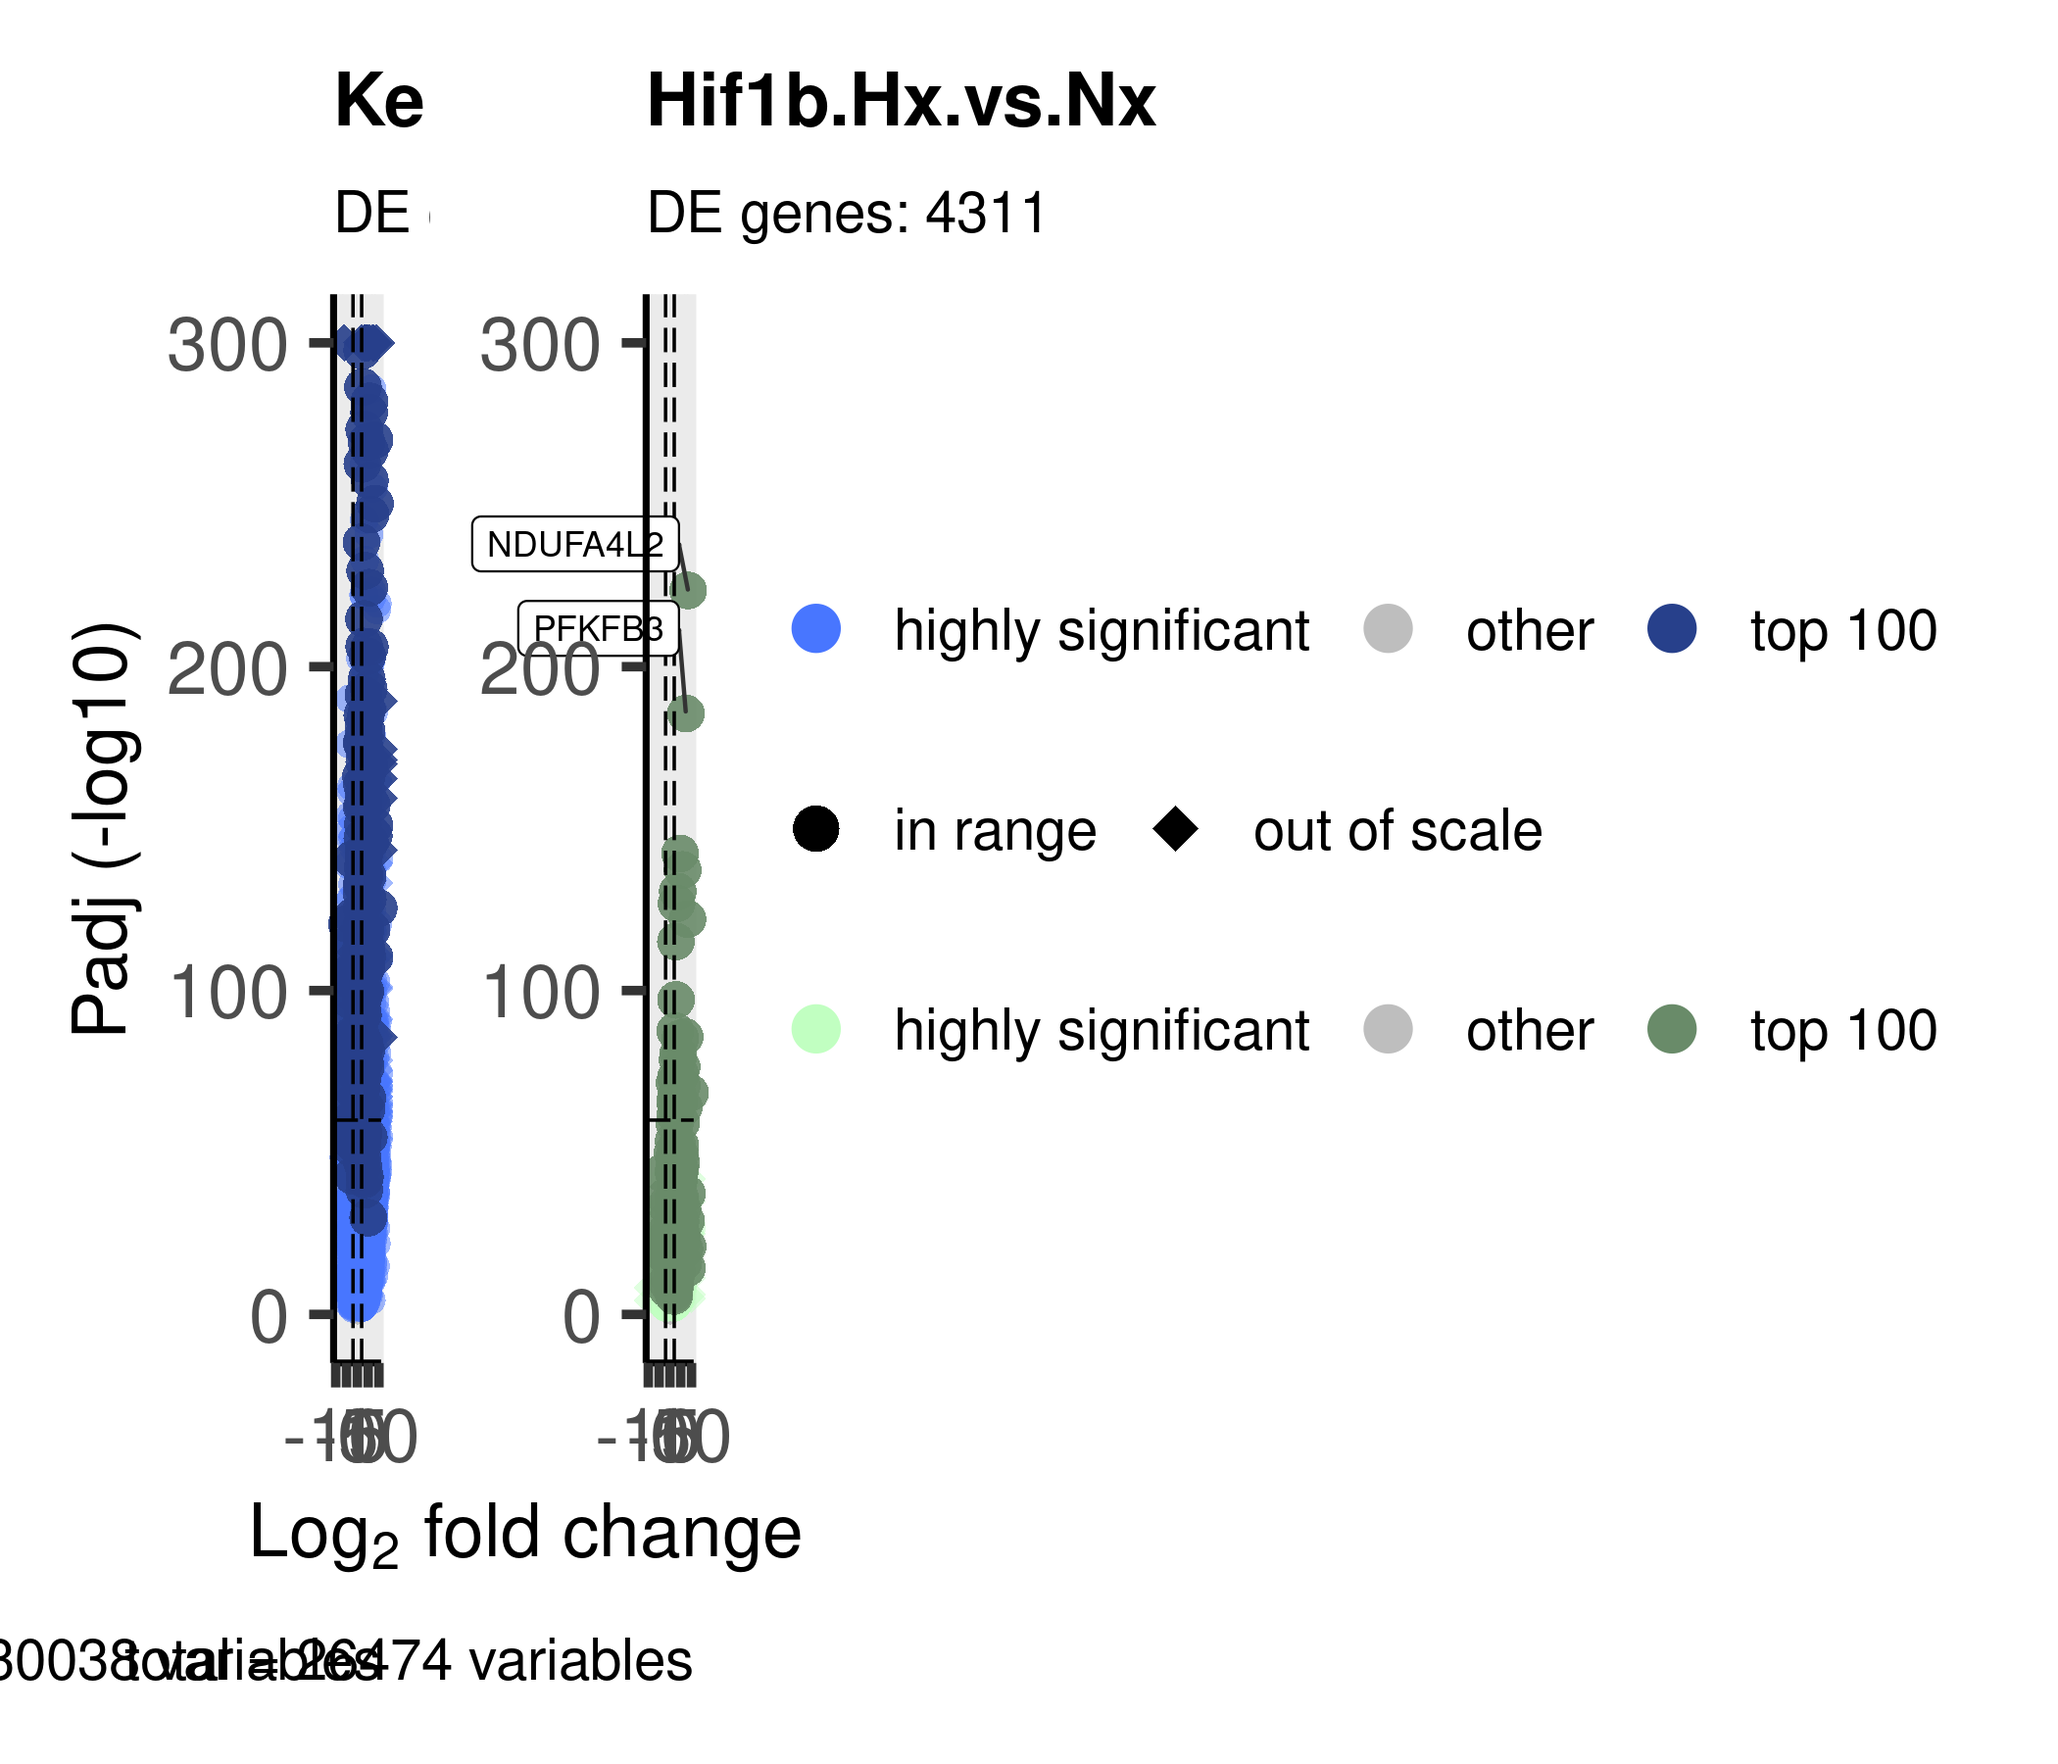
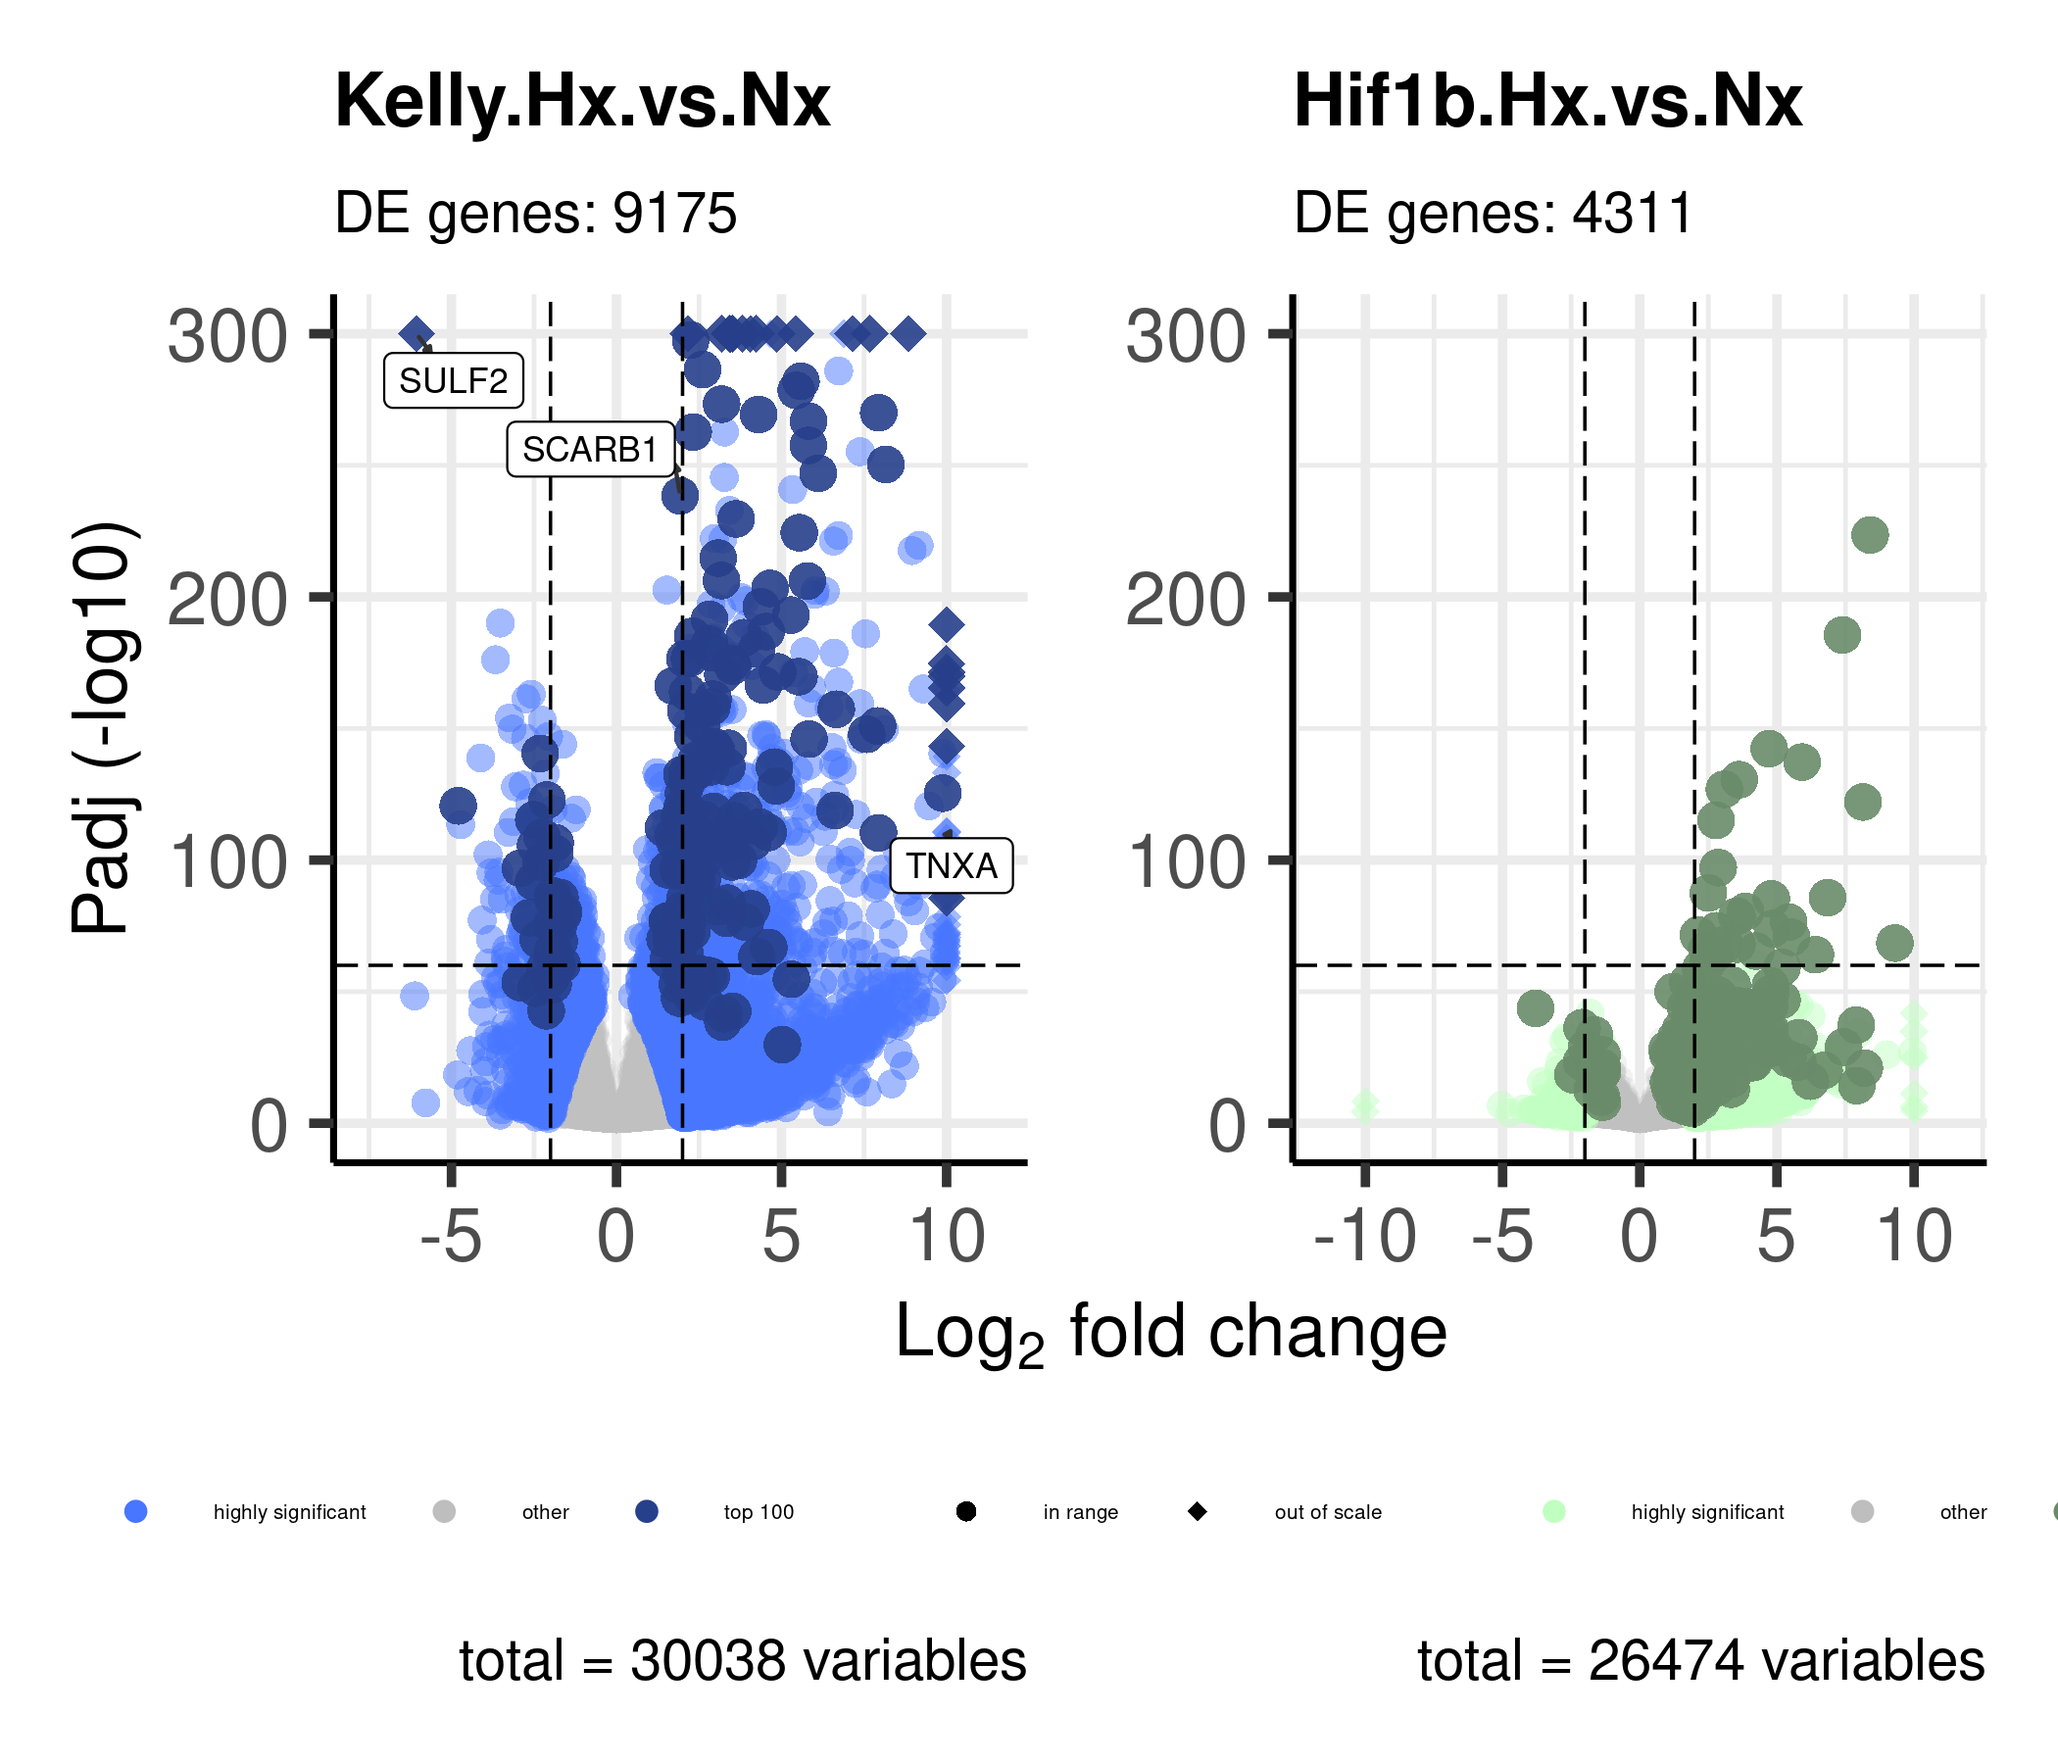
example counts

diff --git a/2B_DGE/README.md b/2B_DGE/README.md
@@ -8,10 +8,9 @@ Kelterborn
   - [- dds](#--dds)
   - [- functions](#--functions)
 - [1. Make results](#1-make-results)
-  - [Advanced results
-    troubleshooting](#advanced-results-troubleshooting)
+  - [Plot example counts](#plot-example-counts)
 - [2. Data Dive](#2-data-dive)
-  - [Results](#results)
+  - [Results Venn](#results-venn)
   - [Volcanos](#volcanos)
     - [prepare data](#prepare-data)
     - [simple volcano (full)](#simple-volcano-full)
@@ -43,7 +42,7 @@ design(dds)
 ```
 
     ## ~genotype + treatment + genotype:treatment
-    ## <environment: 0x562b8ffeb498>
+    ## <environment: 0x55a2604a46f8>
 
 ``` r
 names(results_list)
@@ -53,13 +52,64 @@ names(results_list)
     ##  [4] "Kelly.Hx.vs.Nx"      "Nx.Hif1a.vs.Kelly"   "Nx.Hif2a.vs.Kelly"  
     ##  [7] "Nx.Hif1b.vs.Kelly"   "Hx.Hif1a.vs.Kelly"   "Hx.Hif2a.vs.Kelly"  
     ## [10] "Hx.Hif1b.vs.Kelly"   "Hx.Hif2a.vs.Hif1a"   "Hx.Hif1b.vs.Hif1a"  
-    ## [13] "Hx.Hif1b.vs.Hif2a"   "Hx.Hif1b.vs.Hif12a"  "Hx.Kelly.vs.Hif12ab"
+    ## [13] "Hx.Hif1b.vs.Hif2a"   "Hx.Hif1b.vs.Hif12a"  "Hx.Kelly.vs.allHIFs"
 
-### Advanced results troubleshooting
+#### (Advanced results troubleshooting)
+
+## Plot example counts
+
+``` r
+cols = brewer.pal(n=8,name = 'Paired')
+
+# get 3 sample genes
+topgenes_list <- lapply(results_list,topgenes) %>%  lapply(.,rownames) 
+sample_plots <- list()
+sample_plots_list <- {}
+plot_list <- list()
+li <- results_list %>% length()
+for (i in 1:li){
+  n <- results_list[i] %>% names()
+  goi <- c(topgenes_list[[i]][1],sample(topgenes_list[[i]],size=2))
+  l <- length(goi)
+       for (ig in 1:l){
+  s <- mcols(dds)[goi[ig],"symbol"]
+  if (s ==""){s <- goi[ig]}
+    d <- plotCounts(dds, gene=goi[ig], intgroup=c("condition","experiment","genotype","treatment"), main=s,returnData=TRUE)
+
+  gcounts <- ggplot(d, aes(x = genotype, y = count, fill=treatment, color=treatment)) +
+    geom_boxplot(color="black") +
+    geom_point(shape=21,color="black",aes(fill=treatment),position=position_dodge(width=0.75), alpha=1) +
+    scale_fill_manual(values=cols[c(1,5)]) +
+    scale_color_manual(values=cols[c(1,5)]) +
+    scale_y_continuous(trans = "log2") +
+    labs(title = paste(s,"(",goi[ig],")",sep=" "))
+  assign(paste("gcounts_",ig,sep=""),gcounts)
+  
+  plot_list[[paste(n,s,sep="_")]] <- gcounts
+       }
+  
+  plot <- gcounts_1 + gcounts_2 + gcounts_3 +  
+    plot_annotation(title = n) +
+    plot_layout(guides = "collect", axis_titles="collect") & theme(legend.position = 'bottom',plot.title = element_text(size=10))
+  print(plot)
+}
+```
+
+![](Readme_files/figure-gfm/results_counts-1.png)<!-- -->![](Readme_files/figure-gfm/results_counts-2.png)<!-- -->![](Readme_files/figure-gfm/results_counts-3.png)<!-- -->![](Readme_files/figure-gfm/results_counts-4.png)<!-- -->![](Readme_files/figure-gfm/results_counts-5.png)<!-- -->![](Readme_files/figure-gfm/results_counts-6.png)<!-- -->![](Readme_files/figure-gfm/results_counts-7.png)<!-- -->![](Readme_files/figure-gfm/results_counts-8.png)<!-- -->![](Readme_files/figure-gfm/results_counts-9.png)<!-- -->![](Readme_files/figure-gfm/results_counts-10.png)<!-- -->![](Readme_files/figure-gfm/results_counts-11.png)<!-- -->![](Readme_files/figure-gfm/results_counts-12.png)<!-- -->![](Readme_files/figure-gfm/results_counts-13.png)<!-- -->![](Readme_files/figure-gfm/results_counts-14.png)<!-- -->![](Readme_files/figure-gfm/results_counts-15.png)<!-- -->
+
+``` r
+for (n in names(results_list)){
+pn <-   str_detect(names(plot_list), pattern=n) %>% names(plot_list)[.]
+plot.3 <- patchwork::wrap_plots(plot_list[pn],ncol = 3) + plot_layout(guides = "collect", axis_titles="collect") + plot_annotation(title = str_split(pn[[1]],pattern="_",simplify =TRUE)[1]) & theme(legend.position = 'bottom',plot.title = element_text(size=10))
+        print(plot.3)
+        }            
+```
+
+![](Readme_files/figure-gfm/results_counts-16.png)<!-- -->![](Readme_files/figure-gfm/results_counts-17.png)<!-- -->![](Readme_files/figure-gfm/results_counts-18.png)<!-- -->![](Readme_files/figure-gfm/results_counts-19.png)<!-- -->![](Readme_files/figure-gfm/results_counts-20.png)<!-- -->![](Readme_files/figure-gfm/results_counts-21.png)<!-- -->![](Readme_files/figure-gfm/results_counts-22.png)<!-- -->![](Readme_files/figure-gfm/results_counts-23.png)<!-- -->![](Readme_files/figure-gfm/results_counts-24.png)<!-- -->![](Readme_files/figure-gfm/results_counts-25.png)<!-- -->![](Readme_files/figure-gfm/results_counts-26.png)<!-- -->![](Readme_files/figure-gfm/results_counts-27.png)<!-- -->![](Readme_files/figure-gfm/results_counts-28.png)<!-- -->![](Readme_files/figure-gfm/results_counts-29.png)<!-- -->![](Readme_files/figure-gfm/results_counts-30.png)<!-- -->
 
 # 2. Data Dive
 
-## Results
+## Results Venn
 
 ## Volcanos
 
@@ -119,8 +169,8 @@ ev_hif1b <- eVukcano_SK(n <- "Hif1b.Hx.vs.Nx",
             hscol="darkseagreen1",
             lcol="grey20")
 
-( ev_kelly + ev_hif1b ) + plot_layout(guides = "collect", axis_titles="collect")
-( ev_hif1a + ev_hif2a) + plot_layout(guides = "collect", axis_titles="collect")
+( ev_kelly + ev_hif1b ) + plot_layout(guides = "collect", axis_titles="collect") & theme(legend.position = 'bottom')
+( ev_hif1a + ev_hif2a) + plot_layout(guides = "collect", axis_titles="collect") & theme(legend.position = 'bottom')
 ```
 
 ![](Readme_files/figure-gfm/draw%20vulcano-1.png)![](Readme_files/figure-gfm/draw%20vulcano-2.png)
